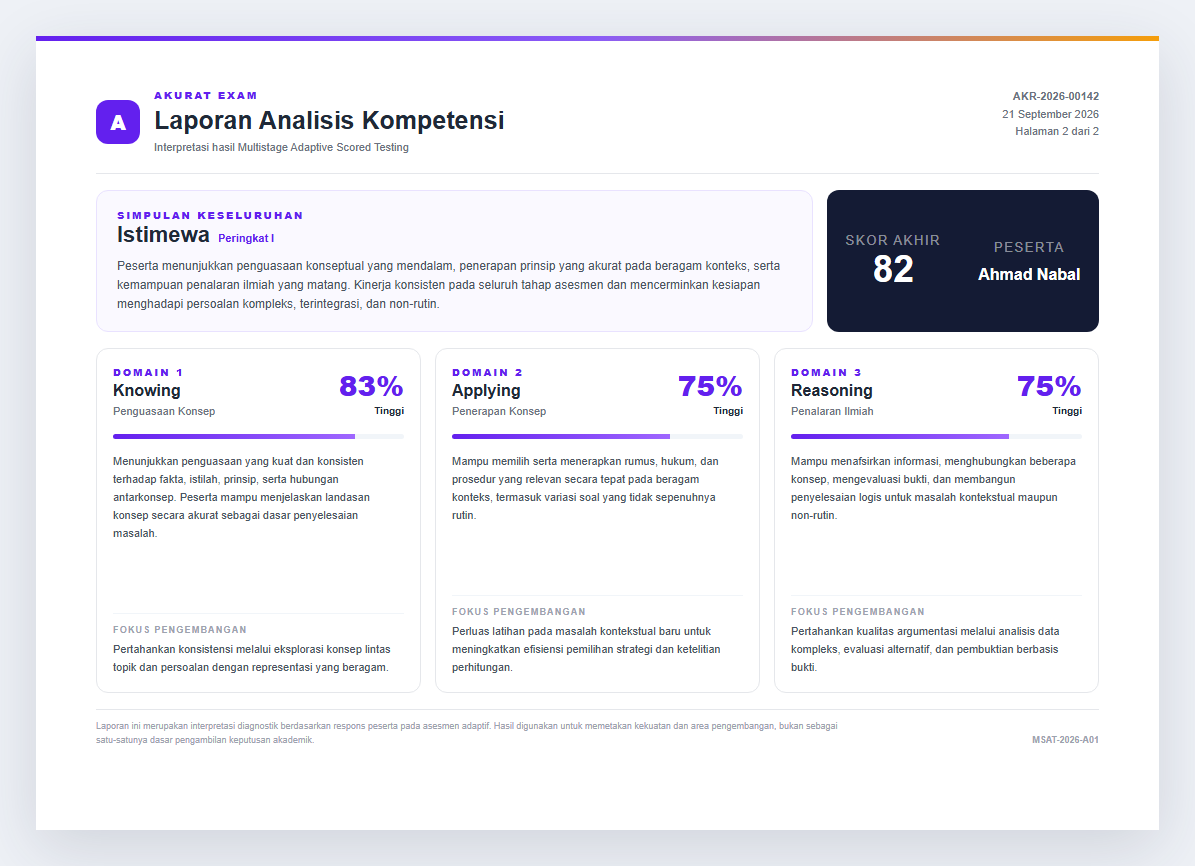
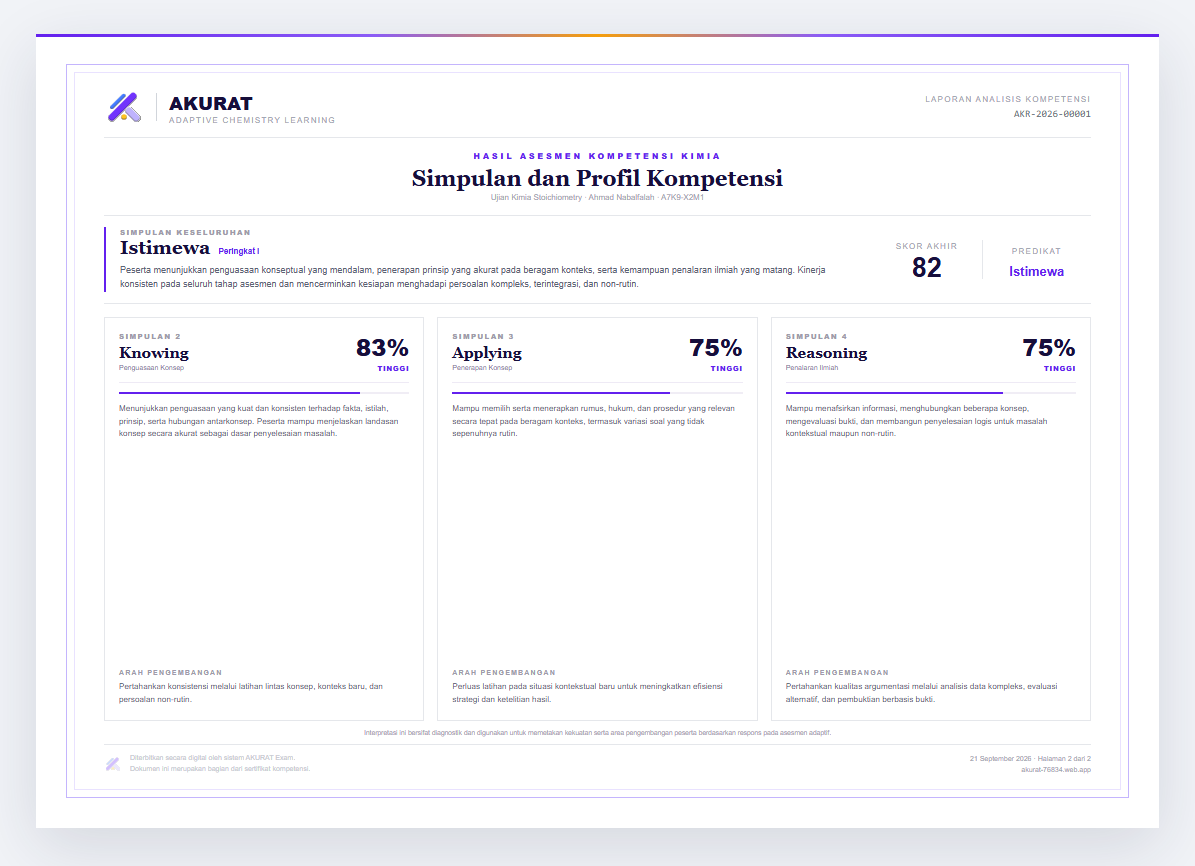
refine certificate analysis page design

diff --git a/docs/design/certificate-analysis-sample.html b/docs/design/certificate-analysis-sample.html
@@ -1,24 +1,21 @@
 <!doctype html>
 <html lang="id">
 <head>
-  <meta charset="utf-8">
-  <meta name="viewport" content="width=device-width,initial-scale=1">
-  <title>Contoh Laporan Analisis Kompetensi — AKURAT</title>
+  <meta charset="utf-8"><meta name="viewport" content="width=device-width,initial-scale=1">
+  <title>Contoh Halaman 2 Sertifikat AKURAT</title>
   <style>
-    *{box-sizing:border-box}body{margin:0;padding:36px;background:#eef1f6;color:#1f2937;font-family:Arial,sans-serif}.sheet{position:relative;width:1123px;height:794px;margin:auto;overflow:hidden;background:#fff;box-shadow:0 18px 60px #25304a26;padding:52px 60px 42px}.accent{position:absolute;inset:0 0 auto;height:5px;background:linear-gradient(90deg,#6320ee,#8b5cf6,#f59e0b)}header{display:flex;justify-content:space-between;align-items:start;border-bottom:1px solid #e5e7eb;padding-bottom:16px}.brand{display:flex;gap:14px;align-items:center}.logo{display:grid;place-items:center;width:44px;height:44px;border-radius:12px;background:#6320ee;color:#fff;font-weight:900;font-size:20px}.eyebrow{font-size:10px;font-weight:800;letter-spacing:2px;text-transform:uppercase;color:#6320ee}h1{margin:4px 0;font-size:25px}.sub,.meta{font-size:11px;color:#6b7280;line-height:1.6}.meta{text-align:right}.summary{display:grid;grid-template-columns:1.45fr .55fr;gap:14px;margin-top:16px}.conclusion{padding:17px 20px;border:1px solid #e9e2ff;border-radius:12px;background:#faf9ff}.conclusion h2{display:inline;margin:4px 8px 0 0;font-size:22px}.rank{color:#6320ee;font-size:11px;font-weight:700}.conclusion p{margin:9px 0 0;font-size:12px;line-height:1.6;color:#4b5563}.score{display:flex;justify-content:space-around;align-items:center;border-radius:12px;background:#141b34;color:#fff}.score div{text-align:center}.score b{display:block;font-size:37px}.score small{color:#ffffff80;text-transform:uppercase;letter-spacing:1.4px}.domains{display:grid;grid-template-columns:repeat(3,1fr);gap:14px;margin-top:16px}.card{height:345px;padding:16px;border:1px solid #e5e7eb;border-radius:12px;display:flex;flex-direction:column}.card-head{display:flex;justify-content:space-between}.card h3{margin:3px 0;font-size:16px}.card .pct{font-size:28px;font-weight:900;color:#6320ee;text-align:right}.card .level{font-size:10px;font-weight:700;text-align:right}.bar{height:5px;background:#f1f5f9;border-radius:8px;margin:13px 0;overflow:hidden}.bar i{display:block;height:100%;background:linear-gradient(90deg,#6320ee,#9f67ff)}.card p{font-size:11px;line-height:1.65;color:#4b5563;margin:0}.focus{margin-top:auto;border-top:1px solid #f1f5f9;padding-top:11px}.focus b{display:block;margin-bottom:5px;color:#9ca3af;font-size:9px;letter-spacing:1.2px;text-transform:uppercase}footer{display:flex;justify-content:space-between;align-items:end;border-top:1px solid #e5e7eb;margin-top:16px;padding-top:10px;font-size:9px;line-height:1.5;color:#9ca3af}footer span{max-width:760px}@media print{body{padding:0;background:#fff}.sheet{box-shadow:none;width:297mm;height:210mm}@page{size:A4 landscape;margin:0}}
+    *{box-sizing:border-box}body{margin:0;padding:34px;background:#f1f3f7;color:#160e3b;font-family:Arial,sans-serif}.sheet{position:relative;width:1123px;height:794px;margin:auto;overflow:hidden;background:#fff;box-shadow:0 18px 60px #20294422}.outer,.inner{position:absolute;pointer-events:none}.outer{inset:30px;border:1.5px solid #c4b5fd}.inner{inset:38px;border:.5px solid #e9e2ff}.accent{position:absolute;inset:0 0 auto;height:3px;background:linear-gradient(90deg,#6320ee,#8b5cf6 30%,#f59e0b 50%,#8b5cf6 70%,#6320ee)}.content{position:absolute;inset:53px 68px;display:flex;flex-direction:column}header{display:flex;align-items:center;justify-content:space-between;border-bottom:1px solid #e5e7eb;padding-bottom:10px}.brand{display:flex;align-items:center;gap:12px}.brand img{width:40px;height:40px}.divider{width:1px;height:28px;background:#d1d5db}.name{font-size:18px;font-weight:900}.tag,.meta-label{font-size:8px;color:#9ca3af;text-transform:uppercase;letter-spacing:1.3px}.meta{text-align:right}.meta-code{margin-top:4px;font-family:monospace;font-size:10px;color:#6b7280}.title{text-align:center;padding-top:12px}.eyebrow{font-size:8px;font-weight:800;letter-spacing:2.8px;text-transform:uppercase;color:#6320ee}.title h1{font-family:Georgia,serif;font-size:22px;margin:5px 0 2px}.title p{margin:0;font-size:8px;color:#9ca3af}.overall{display:grid;grid-template-columns:1.55fr .45fr;gap:14px;border-top:1px solid #e5e7eb;border-bottom:1px solid #e5e7eb;padding:11px 0;margin-top:13px}.conclusion{border-left:2px solid #6320ee;padding-left:14px}.conclusion h2{font:700 19px Georgia,serif;display:inline;margin-right:8px}.rank{font-size:8px;color:#6320ee;font-weight:700}.conclusion p{font-size:9px;line-height:1.55;color:#5b6475;margin:6px 0 0}.summary{display:grid;grid-template-columns:1fr 1fr;align-items:center;text-align:center}.summary div+div{border-left:1px solid #e5e7eb}.summary b{display:block;font-size:27px}.summary .grade{font-size:13px;color:#6320ee;margin-top:6px}.domains{display:grid;grid-template-columns:repeat(3,1fr);gap:13px;flex:1;margin-top:13px}.card{border:1px solid #e5e7eb;padding:13px 14px;display:flex;flex-direction:column}.card-head{display:flex;justify-content:space-between;border-bottom:1px solid #eeeaf5;padding-bottom:9px}.number{font-size:7px;font-weight:800;letter-spacing:1.4px;color:#a09aaa;text-transform:uppercase}.card h3{font:700 15px Georgia,serif;margin:3px 0}.subtitle{font-size:7px;color:#8b829e}.pct{text-align:right;font-size:23px;font-weight:900}.level{text-align:right;font-size:7px;font-weight:800;letter-spacing:.7px;color:#6320ee;text-transform:uppercase}.bar{height:2px;background:#f0edf5;margin:9px 0}.bar i{display:block;height:100%;background:#6320ee}.card p{font-size:8.2px;line-height:1.55;color:#5b6475;margin:0}.development{margin-top:auto;padding-top:9px}.development b{display:block;font-size:7px;letter-spacing:1.2px;color:#a09aaa;text-transform:uppercase;margin-bottom:5px}.note{text-align:center;font-size:6.7px;color:#a7a1b0;margin:8px 0}footer{display:flex;align-items:center;justify-content:space-between;border-top:1px solid #e5e7eb;padding-top:8px}.footer-brand{display:flex;align-items:center;gap:8px;font-size:7px;line-height:1.5;color:#c7c9d0}.footer-brand img{width:18px;opacity:.3}.footer-meta{text-align:right;font-size:7px;line-height:1.6;color:#9ca3af}@media print{body{padding:0;background:#fff}.sheet{box-shadow:none;width:297mm;height:210mm}@page{size:A4 landscape;margin:0}}
   </style>
 </head>
-<body>
-  <main class="sheet">
-    <div class="accent"></div>
-    <header><div class="brand"><div class="logo">A</div><div><div class="eyebrow">AKURAT Exam</div><h1>Laporan Analisis Kompetensi</h1><div class="sub">Interpretasi hasil Multistage Adaptive Scored Testing</div></div></div><div class="meta"><b>AKR-2026-00142</b><br>21 September 2026<br>Halaman 2 dari 2</div></header>
-    <section class="summary"><div class="conclusion"><div class="eyebrow">Simpulan keseluruhan</div><h2>Istimewa</h2><span class="rank">Peringkat I</span><p>Peserta menunjukkan penguasaan konseptual yang mendalam, penerapan prinsip yang akurat pada beragam konteks, serta kemampuan penalaran ilmiah yang matang. Kinerja konsisten pada seluruh tahap asesmen dan mencerminkan kesiapan menghadapi persoalan kompleks, terintegrasi, dan non-rutin.</p></div><div class="score"><div><small>Skor akhir</small><b>82</b></div><div><small>Peserta</small><b style="font-size:16px;margin-top:10px">Ahmad Nabal</b></div></div></section>
-    <section class="domains">
-      <article class="card"><div class="card-head"><div><div class="eyebrow">Domain 1</div><h3>Knowing</h3><div class="sub">Penguasaan Konsep</div></div><div><div class="pct">83%</div><div class="level">Tinggi</div></div></div><div class="bar"><i style="width:83%"></i></div><p>Menunjukkan penguasaan yang kuat dan konsisten terhadap fakta, istilah, prinsip, serta hubungan antarkonsep. Peserta mampu menjelaskan landasan konsep secara akurat sebagai dasar penyelesaian masalah.</p><div class="focus"><b>Fokus pengembangan</b><p>Pertahankan konsistensi melalui eksplorasi konsep lintas topik dan persoalan dengan representasi yang beragam.</p></div></article>
-      <article class="card"><div class="card-head"><div><div class="eyebrow">Domain 2</div><h3>Applying</h3><div class="sub">Penerapan Konsep</div></div><div><div class="pct">75%</div><div class="level">Tinggi</div></div></div><div class="bar"><i style="width:75%"></i></div><p>Mampu memilih serta menerapkan rumus, hukum, dan prosedur yang relevan secara tepat pada beragam konteks, termasuk variasi soal yang tidak sepenuhnya rutin.</p><div class="focus"><b>Fokus pengembangan</b><p>Perluas latihan pada masalah kontekstual baru untuk meningkatkan efisiensi pemilihan strategi dan ketelitian perhitungan.</p></div></article>
-      <article class="card"><div class="card-head"><div><div class="eyebrow">Domain 3</div><h3>Reasoning</h3><div class="sub">Penalaran Ilmiah</div></div><div><div class="pct">75%</div><div class="level">Tinggi</div></div></div><div class="bar"><i style="width:75%"></i></div><p>Mampu menafsirkan informasi, menghubungkan beberapa konsep, mengevaluasi bukti, dan membangun penyelesaian logis untuk masalah kontekstual maupun non-rutin.</p><div class="focus"><b>Fokus pengembangan</b><p>Pertahankan kualitas argumentasi melalui analisis data kompleks, evaluasi alternatif, dan pembuktian berbasis bukti.</p></div></article>
-    </section>
-    <footer><span>Laporan ini merupakan interpretasi diagnostik berdasarkan respons peserta pada asesmen adaptif. Hasil digunakan untuk memetakan kekuatan dan area pengembangan, bukan sebagai satu-satunya dasar pengambilan keputusan akademik.</span><b>MSAT-2026-A01</b></footer>
-  </main>
-</body>
-</html>
+<body><main class="sheet"><div class="outer"></div><div class="inner"></div><div class="accent"></div><div class="content">
+  <header><div class="brand"><img src="../../public/icons/Akurat_Logo.svg" alt="Logo AKURAT"><div class="divider"></div><div><div class="name">AKURAT</div><div class="tag">Adaptive Chemistry Learning</div></div></div><div class="meta"><div class="meta-label">Laporan Analisis Kompetensi</div><div class="meta-code">AKR-2026-00001</div></div></header>
+  <section class="title"><div class="eyebrow">Hasil Asesmen Kompetensi Kimia</div><h1>Simpulan dan Profil Kompetensi</h1><p>Ujian Kimia Stoichiometry · Ahmad Nabalfalah · A7K9-X2M1</p></section>
+  <section class="overall"><div class="conclusion"><div class="number">Simpulan keseluruhan</div><h2>Istimewa</h2><span class="rank">Peringkat I</span><p>Peserta menunjukkan penguasaan konseptual yang mendalam, penerapan prinsip yang akurat pada beragam konteks, serta kemampuan penalaran ilmiah yang matang. Kinerja konsisten pada seluruh tahap asesmen dan mencerminkan kesiapan menghadapi persoalan kompleks, terintegrasi, dan non-rutin.</p></div><div class="summary"><div><span class="meta-label">Skor akhir</span><b>82</b></div><div><span class="meta-label">Predikat</span><b class="grade">Istimewa</b></div></div></section>
+  <section class="domains">
+    <article class="card"><div class="card-head"><div><div class="number">Simpulan 2</div><h3>Knowing</h3><div class="subtitle">Penguasaan Konsep</div></div><div><div class="pct">83%</div><div class="level">Tinggi</div></div></div><div class="bar"><i style="width:83%"></i></div><p>Menunjukkan penguasaan yang kuat dan konsisten terhadap fakta, istilah, prinsip, serta hubungan antarkonsep. Peserta mampu menjelaskan landasan konsep secara akurat sebagai dasar penyelesaian masalah.</p><div class="development"><b>Arah pengembangan</b><p>Pertahankan konsistensi melalui latihan lintas konsep, konteks baru, dan persoalan non-rutin.</p></div></article>
+    <article class="card"><div class="card-head"><div><div class="number">Simpulan 3</div><h3>Applying</h3><div class="subtitle">Penerapan Konsep</div></div><div><div class="pct">75%</div><div class="level">Tinggi</div></div></div><div class="bar"><i style="width:75%"></i></div><p>Mampu memilih serta menerapkan rumus, hukum, dan prosedur yang relevan secara tepat pada beragam konteks, termasuk variasi soal yang tidak sepenuhnya rutin.</p><div class="development"><b>Arah pengembangan</b><p>Perluas latihan pada situasi kontekstual baru untuk meningkatkan efisiensi strategi dan ketelitian hasil.</p></div></article>
+    <article class="card"><div class="card-head"><div><div class="number">Simpulan 4</div><h3>Reasoning</h3><div class="subtitle">Penalaran Ilmiah</div></div><div><div class="pct">75%</div><div class="level">Tinggi</div></div></div><div class="bar"><i style="width:75%"></i></div><p>Mampu menafsirkan informasi, menghubungkan beberapa konsep, mengevaluasi bukti, dan membangun penyelesaian logis untuk masalah kontekstual maupun non-rutin.</p><div class="development"><b>Arah pengembangan</b><p>Pertahankan kualitas argumentasi melalui analisis data kompleks, evaluasi alternatif, dan pembuktian berbasis bukti.</p></div></article>
+  </section>
+  <p class="note">Interpretasi ini bersifat diagnostik dan digunakan untuk memetakan kekuatan serta area pengembangan peserta berdasarkan respons pada asesmen adaptif.</p>
+  <footer><div class="footer-brand"><img src="../../public/icons/Akurat_Logo.svg" alt="">Diterbitkan secara digital oleh sistem AKURAT Exam.<br>Dokumen ini merupakan bagian dari sertifikat kompetensi.</div><div class="footer-meta">21 September 2026 · Halaman 2 dari 2<br>akurat-76834.web.app</div></footer>
+</div></main></body></html>

diff --git a/src/app/(exam)/exam/certificates/[id]/page.tsx b/src/app/(exam)/exam/certificates/[id]/page.tsx
@@ -296,69 +296,93 @@ const CertificateDetailPage: FC = () => {
 
         {/* Page 2 — competency analysis */}
         <div className="cert-sheet relative overflow-hidden bg-white shadow-lg" style={{ aspectRatio: '297/210' }}>
-          <div className="absolute inset-x-0 top-0 h-1 bg-gradient-to-r from-[#6320EE] via-[#8B5CF6] to-[#F59E0B]" />
-          <div className="absolute -right-24 -top-24 h-64 w-64 rounded-full bg-[#6320EE]/[0.035]" />
-          <div className="absolute -bottom-28 -left-20 h-64 w-64 rounded-full bg-[#F59E0B]/[0.04]" />
+          <div className="pointer-events-none absolute" style={{ inset: '8mm', border: '1.5px solid #C4B5FD' }} />
+          <div className="pointer-events-none absolute" style={{ inset: '10mm', border: '0.5px solid #E9E2FF' }} />
+          {['top-[7mm] left-[7mm]', 'top-[7mm] right-[7mm] scale-x-[-1]', 'bottom-[7mm] left-[7mm] scale-y-[-1]', 'bottom-[7mm] right-[7mm] scale-[-1]'].map((pos, i) => (
+            <div key={i} className={`pointer-events-none absolute h-7 w-7 ${pos}`}>
+              <svg viewBox="0 0 28 28" fill="none"><path d="M0 28V4C0 1.79 1.79 0 4 0h24" stroke="#C4B5FD" strokeWidth="1.5" /></svg>
+            </div>
+          ))}
+          <div className="absolute left-0 right-0 top-0 h-[3px]" style={{ background: 'linear-gradient(90deg, #6320EE 0%, #8B5CF6 30%, #F59E0B 50%, #8B5CF6 70%, #6320EE 100%)' }} />
 
-          <div className="absolute flex flex-col" style={{ inset: '13mm 16mm 11mm' }}>
-            <header className="flex items-start justify-between border-b border-[#E5E7EB] pb-3">
+          <div className="absolute flex flex-col" style={{ inset: '14mm 18mm' }}>
+            <header className="flex items-center justify-between border-b border-[#E5E7EB] pb-2.5">
               <div className="flex items-center gap-3">
-                <Image src="/icons/Akurat_Logo.svg" alt="AKURAT" width={36} height={36} />
+                <Image src="/icons/Akurat_Logo.svg" alt="AKURAT" width={40} height={40} />
+                <div className="h-7 w-px bg-[#D1D5DB]" />
                 <div>
-                  <p className="text-[8px] font-bold uppercase tracking-[0.22em] text-[#6320EE]">AKURAT Exam</p>
-                  <h2 className="font-display text-xl font-extrabold text-[#141B34]">Laporan Analisis Kompetensi</h2>
-                  <p className="mt-0.5 text-[9px] text-[#6B7280]">Interpretasi hasil Multistage Adaptive Scored Testing</p>
+                  <p className="font-display text-lg font-extrabold leading-tight text-[#1a1040]">AKURAT</p>
+                  <p className="text-[8px] font-medium uppercase tracking-[0.12em] text-[#9CA3AF]">Adaptive Chemistry Learning</p>
                 </div>
               </div>
-              <div className="text-right text-[8px] leading-relaxed text-[#6B7280]">
-                <p className="font-mono font-semibold text-[#374151]">{cert.certificateNo}</p>
-                <p>{formatDate(cert.issuedAt)}</p>
-                <p>Halaman 2 dari 2</p>
+              <div className="text-right">
+                <p className="text-[8px] font-bold uppercase tracking-[0.18em] text-[#9CA3AF]">Laporan Analisis Kompetensi</p>
+                <p className="mt-0.5 font-mono text-[10px] text-[#6B7280]">{cert.certificateNo}</p>
               </div>
             </header>
 
-            <div className="mt-3 grid grid-cols-[1.45fr_0.55fr] gap-3">
-              <section className="rounded-lg border border-[#E9E2FF] bg-[#FAF9FF] px-4 py-3">
-                <p className="text-[7px] font-bold uppercase tracking-[0.18em] text-[#7C3AED]">Simpulan keseluruhan</p>
-                <div className="mt-1 flex items-baseline gap-2">
-                  <h3 className="font-display text-lg font-extrabold text-[#1F2937]">{cert.predikat}</h3>
-                  <span className="text-[9px] font-semibold text-[#7C3AED]">Peringkat {PERINGKAT_ROMAN[peringkat] ?? peringkat}</span>
-                </div>
-                <p className="mt-1.5 text-[9px] leading-[1.55] text-[#4B5563]">{description}</p>
+            <div className="flex flex-1 flex-col pt-3">
+              <div className="text-center">
+                <p className="text-[8px] font-bold uppercase tracking-[0.28em] text-[#6320EE]">Hasil Asesmen Kompetensi Kimia</p>
+                <h2 className="mt-1 font-serif text-[21px] font-bold text-[#1a1040]" style={{ fontFamily: 'Cormorant Garamond, serif' }}>Simpulan dan Profil Kompetensi</h2>
+                <p className="mt-0.5 text-[8px] text-[#9CA3AF]">{cert.examTitle} · {profile?.displayName ?? '-'}{examCode ? ` · ${examCode}` : ''}</p>
+              </div>
+
+              <div className="mt-3 grid grid-cols-[1.55fr_0.45fr] gap-3 border-y border-[#E5E7EB] py-2.5">
+                <section className="border-l-2 border-[#6320EE] pl-3.5">
+                  <p className="text-[7px] font-bold uppercase tracking-[0.17em] text-[#8B829E]">Simpulan keseluruhan</p>
+                  <div className="mt-0.5 flex items-baseline gap-2">
+                    <h3 className="font-serif text-[18px] font-bold text-[#1a1040]" style={{ fontFamily: 'Cormorant Garamond, serif' }}>{cert.predikat}</h3>
+                    <span className="text-[8px] font-semibold text-[#6320EE]">Peringkat {PERINGKAT_ROMAN[peringkat] ?? peringkat}</span>
+                  </div>
+                  <p className="mt-1 text-[8.5px] leading-[1.5] text-[#5B6475]">{description}</p>
+                </section>
+                <section className="grid grid-cols-2 divide-x divide-[#E5E7EB] text-center">
+                  <div className="flex flex-col justify-center"><p className="text-[7px] font-bold uppercase tracking-[0.14em] text-[#9CA3AF]">Skor akhir</p><p className="font-display text-[27px] font-black leading-none text-[#1a1040]">{cert.score}</p></div>
+                  <div className="flex flex-col justify-center pl-3"><p className="text-[7px] font-bold uppercase tracking-[0.14em] text-[#9CA3AF]">Predikat</p><p className="mt-1 text-[12px] font-extrabold text-[#6320EE]">{cert.predikat}</p></div>
+                </section>
+              </div>
+
+              <section className="mt-3 grid flex-1 grid-cols-3 gap-3">
+                {domainResults.map((domain, index) => (
+                  <article key={domain.key} className="flex flex-col border border-[#E5E7EB] bg-white px-3.5 py-3">
+                    <div className="flex items-start justify-between border-b border-[#EEEAF5] pb-2">
+                      <div>
+                        <span className="text-[6.5px] font-bold uppercase tracking-[0.16em] text-[#A09AAA]">Simpulan {index + 2}</span>
+                        <h3 className="mt-0.5 font-serif text-[14px] font-bold text-[#1a1040]" style={{ fontFamily: 'Cormorant Garamond, serif' }}>{domain.label}</h3>
+                        <p className="text-[7px] text-[#8B829E]">{domain.subtitle}</p>
+                      </div>
+                      <div className="text-right"><p className="font-display text-[22px] font-black leading-none text-[#1a1040]">{domain.score}%</p><p className="mt-1 text-[7px] font-bold uppercase tracking-wide text-[#6320EE]">{domain.level}</p></div>
+                    </div>
+                    <div className="my-2 h-[2px] bg-[#F0EDF5]"><div className="h-full bg-[#6320EE]" style={{ width: `${Math.max(2, Math.min(100, domain.score))}%` }} /></div>
+                    <p className="text-[8px] leading-[1.5] text-[#5B6475]">{domain.narrative}</p>
+                    <div className="mt-auto pt-2">
+                      <p className="text-[6.5px] font-bold uppercase tracking-[0.14em] text-[#A09AAA]">Arah pengembangan</p>
+                      <p className="mt-1 text-[7.5px] leading-[1.45] text-[#737B8C]">
+                        {domain.level === 'Tinggi' ? 'Pertahankan konsistensi melalui latihan lintas konsep, konteks baru, dan persoalan non-rutin.' : domain.level === 'Sedang' ? 'Perkuat konsistensi melalui latihan bertahap, refleksi strategi, dan evaluasi kesalahan.' : 'Prioritaskan penguatan konsep dasar melalui latihan terarah, contoh konkret, dan umpan balik berkala.'}
+                      </p>
+                    </div>
+                  </article>
+                ))}
               </section>
-              <section className="flex items-center justify-around rounded-lg bg-[#141B34] px-4 py-3 text-white">
-                <div className="text-center"><p className="text-[7px] font-bold uppercase tracking-[0.14em] text-white/50">Skor akhir</p><p className="font-display text-3xl font-black">{cert.score}</p></div>
-                <div className="h-9 w-px bg-white/15" />
-                <div className="min-w-0 text-center"><p className="text-[7px] font-bold uppercase tracking-[0.14em] text-white/50">Peserta</p><p className="mt-1 max-w-[120px] truncate text-[11px] font-bold">{profile?.displayName ?? '-'}</p><p className="mt-0.5 max-w-[120px] truncate text-[7px] text-white/50">{profile?.institution ?? '-'}</p></div>
-              </section>
+
+              <p className="mt-2 text-center text-[6.5px] leading-relaxed text-[#A7A1B0]">
+                Interpretasi ini bersifat diagnostik dan digunakan untuk memetakan kekuatan serta area pengembangan peserta berdasarkan respons pada asesmen adaptif.
+              </p>
             </div>
 
-            <section className="mt-3 grid flex-1 grid-cols-3 gap-3">
-              {domainResults.map((domain, index) => (
-                <article key={domain.key} className="flex flex-col rounded-lg border border-[#E5E7EB] bg-white p-3">
-                  <div className="flex items-start justify-between">
-                    <div>
-                      <span className="text-[7px] font-bold uppercase tracking-[0.16em] text-[#9CA3AF]">Domain {index + 1}</span>
-                      <h3 className="mt-0.5 text-[12px] font-extrabold text-[#1F2937]">{domain.label}</h3>
-                      <p className="text-[8px] text-[#6B7280]">{domain.subtitle}</p>
-                    </div>
-                    <div className="text-right"><p className="font-display text-2xl font-black leading-none text-[#6320EE]">{domain.score}%</p><p className="mt-1 text-[8px] font-bold text-[#4B5563]">{domain.level}</p></div>
-                  </div>
-                  <div className="my-2.5 h-1 overflow-hidden rounded-full bg-[#F1F5F9]"><div className="h-full rounded-full bg-gradient-to-r from-[#6320EE] to-[#9F67FF]" style={{ width: `${Math.max(2, Math.min(100, domain.score))}%` }} /></div>
-                  <p className="text-[8.5px] leading-[1.55] text-[#4B5563]">{domain.narrative}</p>
-                  <div className="mt-auto border-t border-[#F1F5F9] pt-2">
-                    <p className="text-[7px] font-bold uppercase tracking-[0.12em] text-[#9CA3AF]">Fokus pengembangan</p>
-                    <p className="mt-1 text-[8px] leading-[1.45] text-[#6B7280]">
-                      {domain.level === 'Tinggi' ? 'Pertahankan konsistensi melalui soal lintas konsep dan konteks baru.' : domain.level === 'Sedang' ? 'Perkuat konsistensi melalui latihan bertahap dan evaluasi kesalahan.' : 'Prioritaskan penguatan konsep dasar dengan latihan terarah dan umpan balik.'}
-                    </p>
-                  </div>
-                </article>
-              ))}
-            </section>
-
-            <footer className="mt-3 flex items-center justify-between border-t border-[#E5E7EB] pt-2 text-[7px] text-[#9CA3AF]">
-              <p className="max-w-[650px] leading-relaxed">Laporan ini merupakan interpretasi diagnostik berdasarkan respons peserta pada asesmen adaptif. Hasil digunakan untuk memetakan kekuatan dan area pengembangan, bukan sebagai satu-satunya dasar pengambilan keputusan akademik.</p>
-              <p className="ml-6 shrink-0 font-mono">{examCode || cert.certificateNo}</p>
+            <footer className="flex items-center justify-between border-t border-[#E5E7EB] pt-2">
+              <div className="flex items-center gap-2">
+                <Image src="/icons/Akurat_Logo.svg" alt="" width={18} height={18} className="opacity-30" />
+                <div className="text-[7px] leading-relaxed text-[#D1D5DB]">
+                  Diterbitkan secara digital oleh sistem AKURAT Exam.<br />
+                  Dokumen ini merupakan bagian dari sertifikat kompetensi.
+                </div>
+              </div>
+              <div className="text-right">
+                <p className="text-[8px] text-[#9CA3AF]">{formatDate(cert.issuedAt)} · Halaman 2 dari 2</p>
+                <p className="mt-0.5 text-[7px] text-[#D1D5DB]">akurat-76834.web.app</p>
+              </div>
             </footer>
           </div>
         </div>
